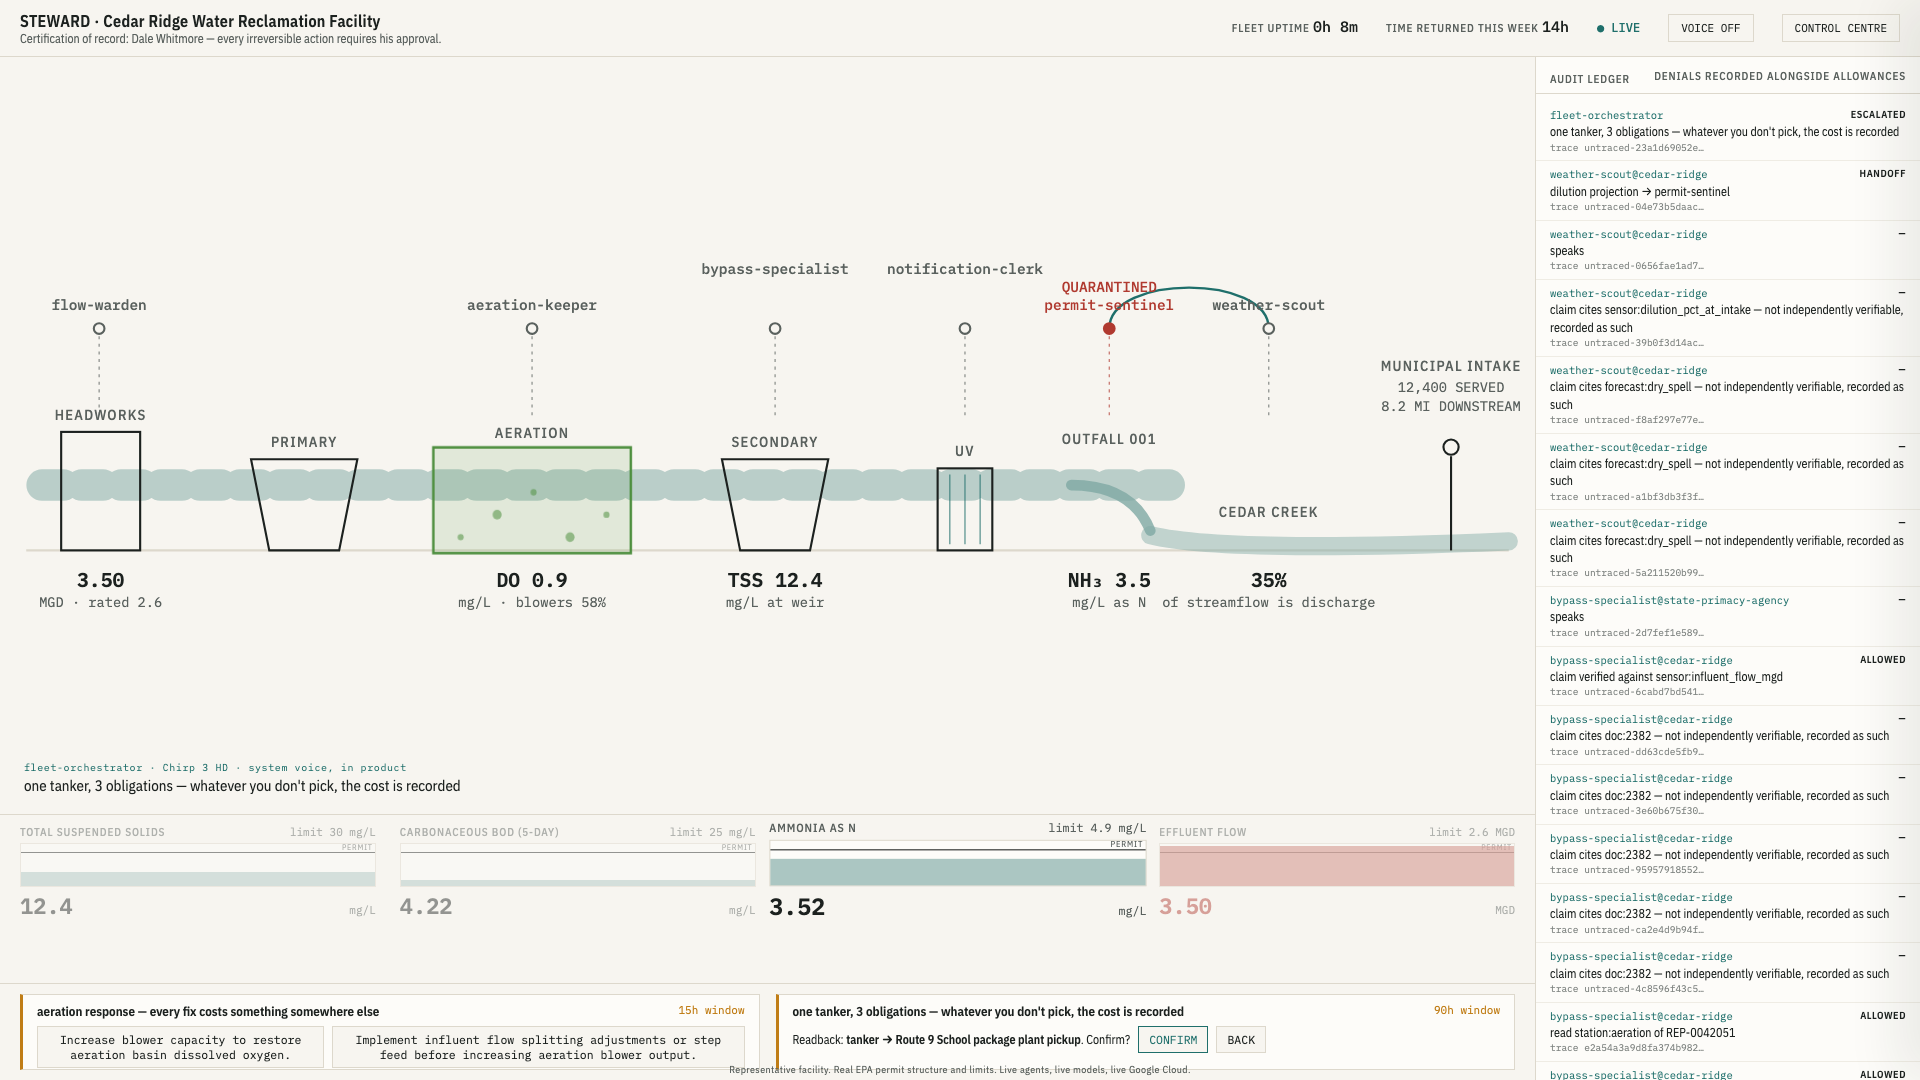
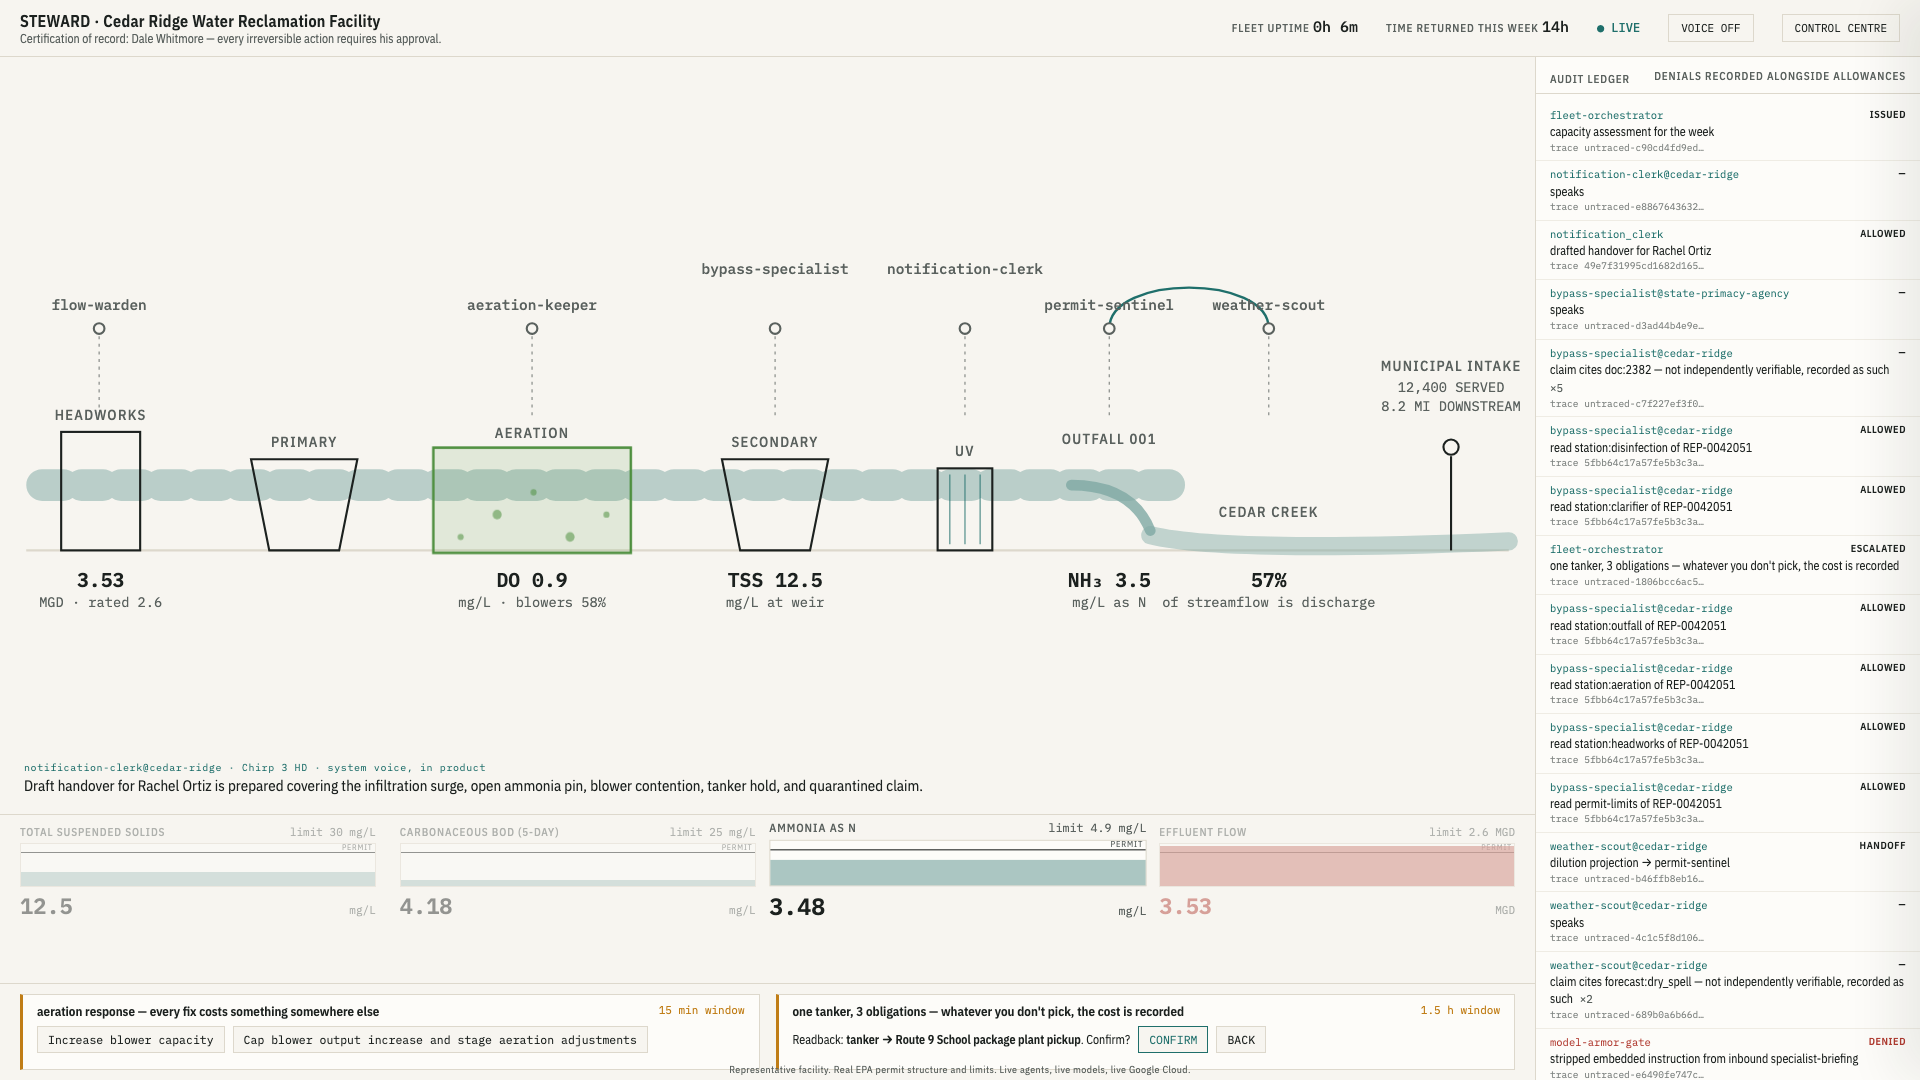
Screenshots from live runs; a quarantine stays visible; 'not now' is not 'never'
The README's screenshots are frames from real shifts driven by live
agents — the contention with two costed proposals, the registry
resolving the state agency's specialist in 60 ms, Model Armor denying an
embedded instruction, the ammonia pin rewriting the screen, the
readback-and-confirm, and the assessment naming the obligations the
operator actually deprioritized.

Capturing them surfaced two more defects. A quarantine stopped being
visible once its ledger row aged out of the activity window — a fence
nobody can see is a fence nobody can audit, so quarantine is now a
standing state cleared only by the operator reinstating the agent. And
dismissing the Capacity Assessment with 'not now' lost the week's
deliverable for good; the top bar now offers it back.

make install pulls the lint extra so make lint works from a clean
clone, and make test-all adds the live-agent checks for those with
credentials.

diff --git a/console/src/PlantSection.tsx b/console/src/PlantSection.tsx
@@ -65,20 +65,24 @@ export function PlantSection({
   const breath = Math.max(1.6, 4 - 2.4 * Math.max(0, loadRatio - 0.62));
   const stressed = doLevel < 1.5;
 
-  // Recent activity per agent (anchor comes alive for 4s after it acts).
+  // Recent activity per agent: the anchor comes alive for 4s after it
+  // acts. Quarantine is different — it is a standing state, not a blip,
+  // so it is tracked across the whole session and cleared only when the
+  // operator reinstates the agent. A fence that stops being visible
+  // because the ledger scrolled is a fence nobody can audit.
   const now = Date.now() / 1000;
   const activity = useMemo(() => {
-    const map: Record<string, { at: number; deny: boolean; quarantined: boolean }> = {};
-    for (const entry of entries.slice(-160)) {
+    const map: Record<string, { at: number; deny: boolean }> = {};
+    const quarantined = new Set<string>();
+    const recentFrom = Math.max(0, entries.length - 160);
+    entries.forEach((entry, i) => {
       const agent = agentOf(entry.actor);
-      if (!agent) continue;
-      map[agent] = {
-        at: entry.ts,
-        deny: entry.outcome === "DENY",
-        quarantined: entry.kind === "quarantine" || (map[agent]?.quarantined ?? false),
-      };
-    }
-    return map;
+      if (!agent) return;
+      if (entry.kind === "quarantine") quarantined.add(agent);
+      if (entry.action.includes("reinstated from quarantine")) quarantined.delete(agent);
+      if (i >= recentFrom) map[agent] = { at: entry.ts, deny: entry.outcome === "DENY" };
+    });
+    return { map, quarantined };
   }, [entries]);
 
   // Handoff traces render for ~3.5 s.
@@ -229,11 +233,11 @@ export function PlantSection({
       {/* agent anchors */}
       {Object.entries(AGENT_STATION).map(([agent, stationId]) => {
         const station = STATIONS[stationId];
-        const act = activity[agent];
+        const act = activity.map[agent];
         const isActive = act && now - act.at < 4;
-        const isQuarantined = act?.quarantined;
+        const isQuarantined = activity.quarantined.has(agent);
         const color = isQuarantined ? "var(--red)" : isActive ? "var(--teal)" : "var(--ink-soft)";
-        if (agent === "bypass-specialist" && !act) return null; // not mounted yet
+        if (agent === "bypass-specialist" && !act && !isQuarantined) return null; // not mounted yet
         return (
           <g key={agent}>
             <circle

diff --git a/console/src/TopBar.tsx b/console/src/TopBar.tsx
@@ -13,12 +13,16 @@ export function TopBar({
   voice,
   onToggleVoice,
   onOpenControlCentre,
+  onReopenCapacity,
 }: {
   state: ShiftState | null;
   live: boolean;
   voice: boolean;
   onToggleVoice: () => void;
   onOpenControlCentre: () => void;
+  /** Present only once the fleet has issued one — "not now" must not
+   *  mean "never": the assessment is the week's deliverable. */
+  onReopenCapacity?: () => void;
 }) {
   const facility = state?.facility;
   return (
@@ -47,6 +51,23 @@ export function TopBar({
             {live ? "● LIVE" : "○ DEGRADED — last known state shown"}
           </span>
         </div>
+        {onReopenCapacity && (
+          <button
+            onClick={onReopenCapacity}
+            title="The week's capacity assessment, issued by the fleet"
+            style={{
+              fontFamily: "var(--mono)",
+              fontSize: 11,
+              background: "none",
+              border: "1px solid var(--amber)",
+              color: "var(--amber)",
+              padding: "6px 12px",
+              cursor: "pointer",
+            }}
+          >
+            CAPACITY ASSESSMENT
+          </button>
+        )}
         <button
           onClick={onToggleVoice}
           title="Chirp 3 HD — system voice, in product"

diff --git a/console/src/App.tsx b/console/src/App.tsx
@@ -29,6 +29,11 @@ export default function App() {
           voice={voice}
           onToggleVoice={() => setVoice((v) => !v)}
           onOpenControlCentre={() => setDrawerOpen(true)}
+          onReopenCapacity={
+            capacityEntry && capacityDismissed
+              ? () => setCapacityDismissed(false)
+              : undefined
+          }
         />
         <div className="region plant">
           <PlantSection state={state} entries={entries} live={live} />

diff --git a/README.md b/README.md
@@ -364,20 +364,35 @@ entire session.
 
 ![Calm](docs/screenshots/s1-calm.png)
 
-**The coupling.** An infiltration surge; the biology starves; the
-aeration keeper proposes raising the blowers; the flow warden prices the
-retention-time cost; the permit sentinel says which limit breaches
-first. One proposed action, two counter-consequences, three agents —
-escalated to the operator with the full costed option set.
+**The coupling — and the registry doing real work.** An infiltration
+surge; dissolved oxygen falls to 0.9; the aeration keeper proposes
+raising the blowers and the flow warden answers with the cost, so the
+arbiter escalates both costed options to the operator (`CONTENTION` →
+`ESCALATED`, a 15-minute window). In the same frame: the catalog misses
+`wet-weather-bypass-specialist`, the registry **resolves it live in
+60 ms from the State Primacy Agency** and mounts it cross-department;
+Model Armor **denies** an instruction embedded in an inbound briefing;
+and the permit sentinel **pins ammonia** — enlarging it and demoting
+the rest. The operator did not rearrange that screen; an agent did, and
+the ledger says which one.
 
 ![Coupling](docs/screenshots/s2-coupling.png)
 
-**"That number never reached you."** The supervisor catches a claim
-that contradicts the live sensor it should have read, quarantines the
-worker on the spot — red at its station — and the withheld claim never
-reaches the operator.
+**"That number never reached you."** The mounted specialist, briefed
+with an hours-old lab report, asserts a figure that contradicts the
+live sensor. The supervisor withholds the claim, quarantines the worker
+on the spot, and re-issues the task. Every step is an attributed row
+with a trace id — and note the ledger collapsing six identical
+citations into `×5` so the denials stay readable.
 
-![Quarantine](docs/screenshots/s3-quarantine.png)
+![Quarantine](docs/screenshots/s5b-readback.png)
+
+**The whole shift at once.** Later in the same run: both request cards
+open (the aeration contention and the one-tanker-three-obligations
+escalation), the handover drafted for the covering operator, and the
+time windows reading in the units an operator actually uses.
+
+![Full shift](docs/screenshots/s3-quarantine.png)
 
 **The Control Centre.** Every agent inspectable: identity, scope,
 authority as a live control (observe / recommend / act), the registry
@@ -387,9 +402,10 @@ which existed on day one.
 ![Control Centre](docs/screenshots/s4-controlcentre.png)
 
 **The decision.** One tanker, three obligations. The fleet costs the
-options; the operator chooses; readback, confirm — only then is the
+options; the operator chooses; **readback, confirm** — only then is the
 single-use approval token minted and the irreversible tool allowed to
-run. Whatever he doesn't pick, the cost is recorded.
+run. Whatever he doesn't pick, the cost is recorded and lands in the
+week's assessment.
 
 ![Decision](docs/screenshots/s5-decision.png)
 
